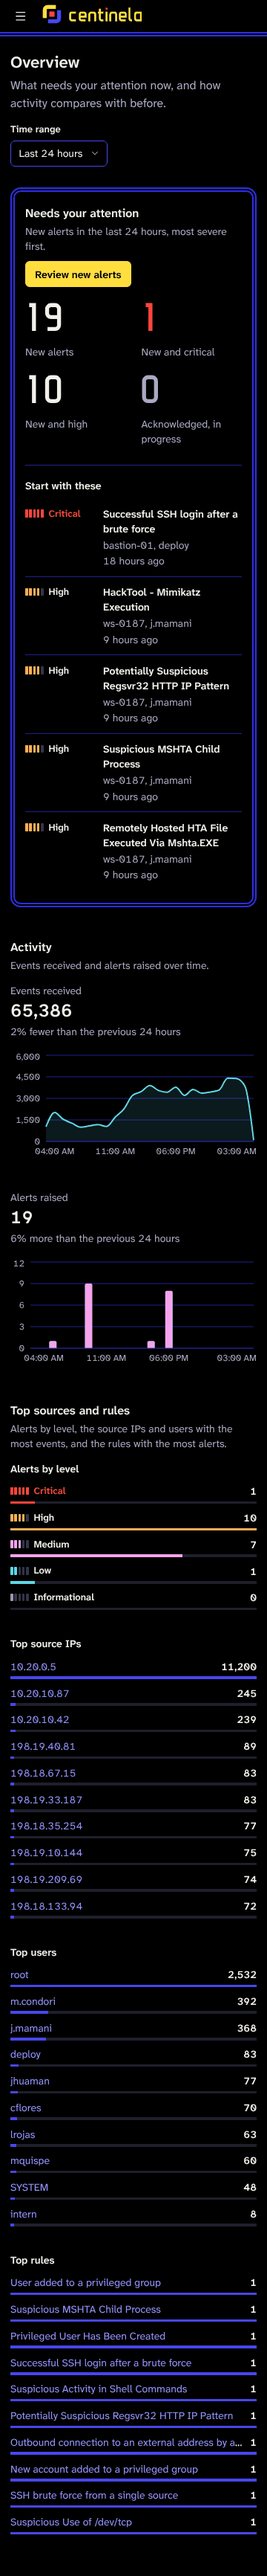
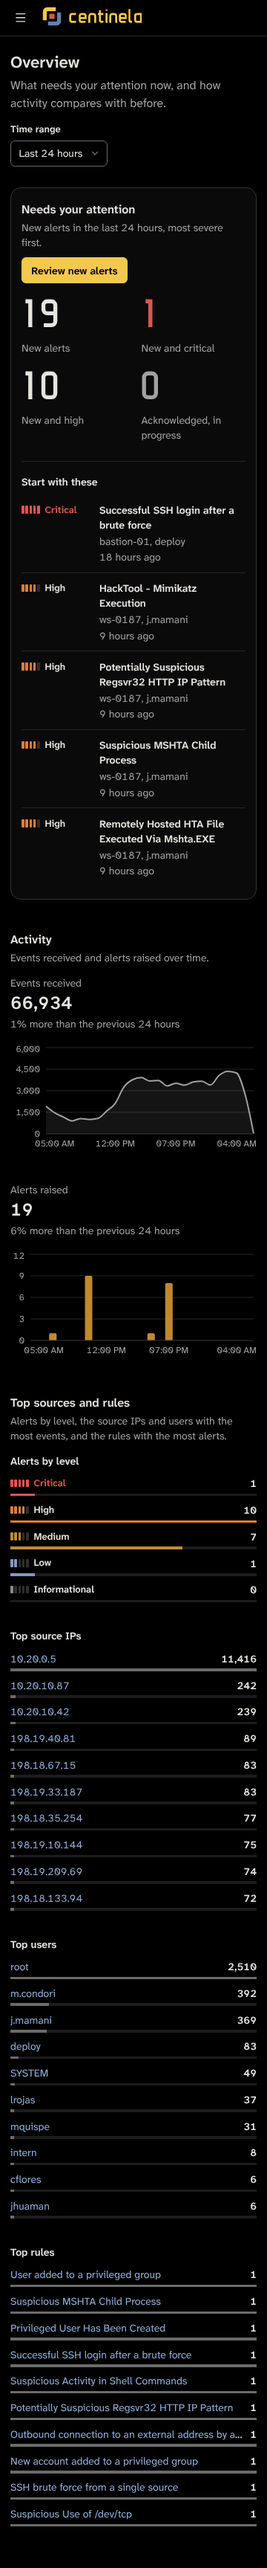
docs(web): screenshots with the revised colours, events before and after

Changed region(s): [[0.0306, 0.0, 0.9778, 0.9913], [0.9167, 0.062, 0.9778, 0.3408], [0.6417, 0.062, 0.825, 0.0929]]

diff --git a/docs/screenshots/README.md b/docs/screenshots/README.md
@@ -6,12 +6,13 @@ Taken by session S7b from `npm run demo` data (seed 42), in the production build
 | --- | --- |
 | `overview.png` | Overview at 1440 px, dark theme: the "Needs your attention" scoreboard and the alerts to start with |
 | `alerts.png` | Alerts list, last 7 days, 1440 px |
+| `events.png` | Events list, last 24 hours, 1440 px |
 | `alert-with-playbook.png` | An alert (Windows Webshell Strings) with what happened, triage and its playbook, 1440 px |
 | `attack.png` | ATT&CK matrix, techniques with alerts in the last 7 days, 1440 px |
 | `sign-in.png` | Sign-in page, 1440 px |
 | `overview-light.png` | Overview in the light theme, 1440 px |
 | `overview-360.png` | Overview at 360 px, full page |
 | `overview-es.png`, `alert-with-playbook-es.png` | The same pages in Spanish |
-| `before-after/*.png` | The Overview, the alert with its playbook, the ATT&CK matrix and the sign-in page before (S7) and after (S7b) the redesign |
+| `before-after/*.png` | The Overview, the alert with its playbook, the events list, the ATT&CK matrix and the sign-in page before (S7) and after (S7b, with the revised colours of S7b-16) the redesign |
 
 The brand files (mark, lockups, favicon) are in `packages/web/public/brand/`; the brand sheet is in `docs/decisions/S7b.md`.
